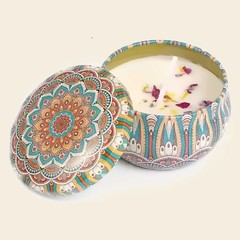
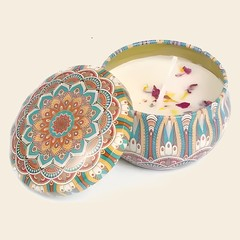
Regenerate all photos with a generative enlarger (Real-ESRGAN x4)
- Product photos now 1800px, banner photos cut from ~3000px masters (1200/2400/3840), scent photos 1200px with cream backdrops
- Lighter 1000px square banner photos for phones
- README note on photo quality

Claude-Session: https://claude.ai/code/session_01HZWAvbY9DuXc5XbQfyfu18

diff --git a/README.md b/README.md
@@ -31,7 +31,7 @@ Everything about products and shipping is in **`data/products.json`**, and the G
 - `image` and `alt` are the photo shown in the Gallery and at Stripe checkout, and its description. `tint: true` darkens a photo slightly.
 - `images` (optional) is the list of photos on the product page, as `{ "src", "alt" }`. With five photos they form a collage (one large photo and four close-ups); with fewer they sit in a row under the main photo. Click a photo to enlarge it.
 - `options` (optional) adds a choice the customer must make, such as a scent: `{ "label": "Scent", "values": [ ... ] }`. Each value has an `id`, `name`, a larger `image` (shown as the main photo when chosen) and a small square `thumb` (shown on its card), and may have its own `price` and `aliexpress.skuId` (the AliExpress variant to order). The cart, Stripe checkout and saved orders all keep the chosen option. Option cards and the photo area use the cream colour `--cream` (`#f5eee0`) in `css/styles.css`; scent photos had their white backgrounds recoloured to the same cream.
-- `banner` (optional) puts the product in the **home page banner slideshow**: `{ "order": 1, "wide": "...-1200.jpg", "wide2x": "...-2400.jpg", "wide4k": "...-4k.jpg", "square": "...", "alt": "..." }`. `order` sets the slide order. `wide`, `wide2x` and `wide4k` are the same wide photo in the banner's shape (about 2.1 : 1) at 1200, 2400 and 3840 pixels wide, and the browser picks the smallest one that is sharp enough for the screen. `square` is the photo phones use. Products without a `banner` are not shown in it.
+- `banner` (optional) puts the product in the **home page banner slideshow**: `{ "order": 1, "wide": "...-1200.jpg", "wide2x": "...-2400.jpg", "wide4k": "...-4k.jpg", "square": "...", "alt": "..." }`. `order` sets the slide order. `wide`, `wide2x` and `wide4k` are the same wide photo in the banner's shape (about 2.1 : 1) at 1200, 2400 and 3840 pixels wide, and the browser picks the smallest one that is sharp enough for the screen. `square` is a lighter 1000px square photo that phones use. Products without a `banner` are not shown in it.
 - `description` (optional) is a list of paragraphs, and `details` (optional) a list of bullet points, shown on the product page.
 - `labels` is the small heading shown beside each tab's products. Its keys are also the list of valid tabs.
 - `shipping` is the delivery cost (`amount`, in cents, `0` = free) and the delivery time shown to the customer (`minBusinessDays` / `maxBusinessDays`).
@@ -92,3 +92,7 @@ functions/api/webhook.js                            receives Stripe's payment me
 functions/_lib/                                     helpers (Stripe, prices, order saving)
 tests/functions.test.js                             automated tests for the server code
 ```
+
+## About the photo quality
+
+The product, banner and scent photos were enlarged four times with a generative image enlarger (Real-ESRGAN), which sharpens by adding plausible fine detail. It is much clearer than a plain enlargement, but it is still based on small supplier photos, so tiny text and fine patterns are the model's best reconstruction. Replace them with your own photos of the samples when they arrive.
